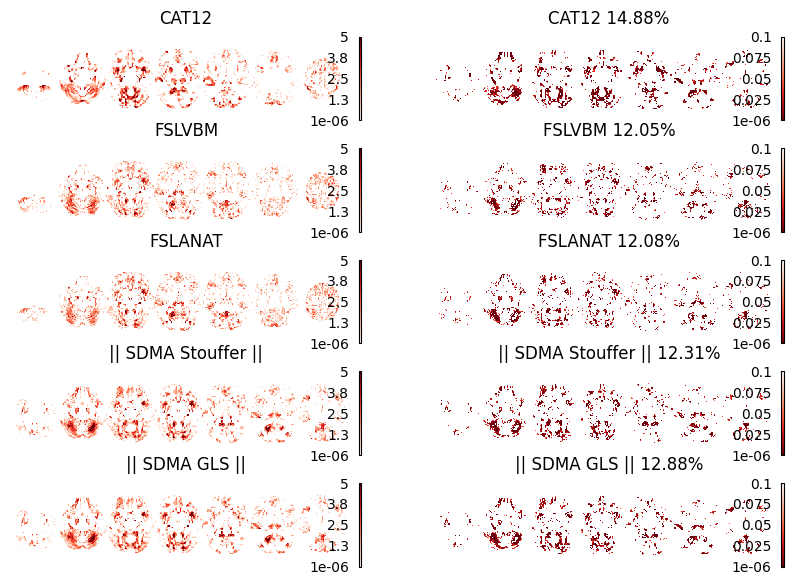
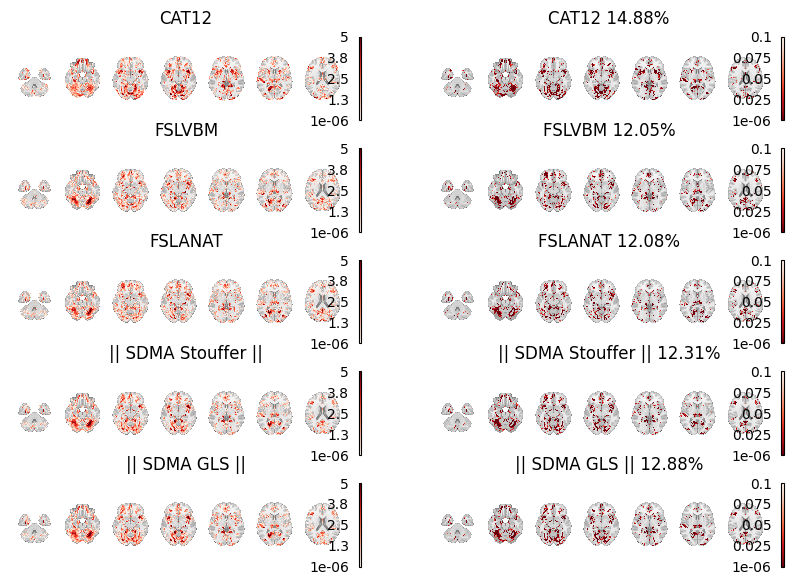
add MNI background to figure

diff --git a/src/SDMA_applied_to_T1.py b/src/SDMA_applied_to_T1.py
@@ -90,6 +90,8 @@ def masking_raw_z_maps(raw_maps, mask):
 	return resampled_maps
 
 masked_z_maps = masking_raw_z_maps(raw_z_value_maps, multiverse_outputs_mask)
+for key in masked_z_maps.keys(): # save data
+	nibabel.save(masked_z_maps[key], os.path.join(data_dir, "multiverse_outputs_resampled", "{}.nii".format(key))),
 masked_z_maps_flatten = masker.fit_transform(masked_z_maps.values())
 
 # compute Z into p to check diff with SDMA outputs and 3 inputs significant values:
@@ -173,9 +175,9 @@ nibabel.save(FSLANAT_significant_p, os.path.join(results_dir , "FSLANAT_signific
 
 # Define the second map list
 map_list_column_1 = [
-    os.path.join(data_dir, "multiverse_outputs_resampled", "CAT12_resampled_Z.nii"),
-    os.path.join(data_dir, "multiverse_outputs_resampled", "FSLVBM_resampled_Z.nii"),
-    os.path.join(data_dir, "multiverse_outputs_resampled", "FSLANAT_resampled_Z.nii"),
+    os.path.join(data_dir, "multiverse_outputs_resampled", "CAT12_resampled_Z_MNI.nii"),
+    os.path.join(data_dir, "multiverse_outputs_resampled", "FSLVBM_resampled_Z_MNI.nii"),
+    os.path.join(data_dir, "multiverse_outputs_resampled", "FSLANAT_resampled_Z_MNI.nii"),
     masker.inverse_transform(SDMA_Stouffer_Zmap),
     masker.inverse_transform(SDMA_GLS_Zmap)
 ]
@@ -204,7 +206,7 @@ for i in range(len(map_list_column_1)):
     plotting.plot_stat_map(
         map_list_column_1[i],
         annotate=False,
-        bg_img=None,  # Set background to None for a white background
+        # bg_img=None,  # Set background to None for a white background
         vmin=0.00000000000001,
         vmax=5,
         cut_coords=(-34, -21, -13, -7, -1, 7, 20),
@@ -220,7 +222,7 @@ for i in range(len(map_list_column_1)):
     plotting.plot_stat_map(
         map_list_column_2[i],
         annotate=False,
-        bg_img=None,  # Set background to None for a white background
+        # bg_img=None,  # Set background to None for a white background
         vmin=0.00000000000001,
         vmax=0.1,
         cut_coords=(-34, -21, -13, -7, -1, 7, 20),
